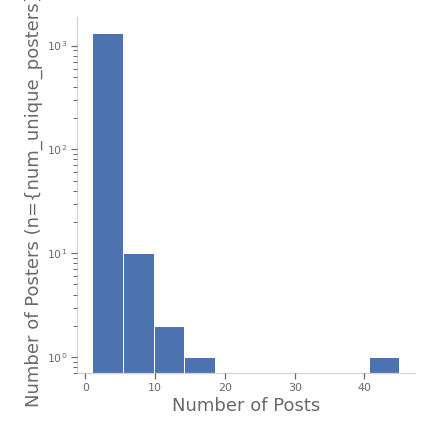
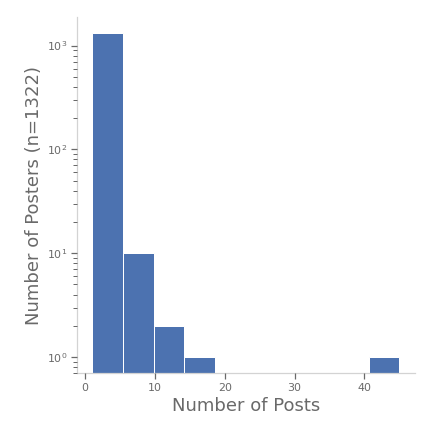
cleaning up code

Changed region(s): [[0.0602, 0.0, 0.1204, 0.963], [0.662, 0.8727, 0.6921, 0.9028], [0.1806, 0.8727, 0.2106, 0.9028]]

diff --git a/wsba.py b/wsba.py
@@ -136,7 +136,7 @@ def makeauthorfigures():
     plt.savefig('figures/pda_numposts.png')
     fig, ax = plt.subplots(1,1, figsize=(6,6))
     ax.hist(x=post_counts)
-    ax.set_ylabel('Number of Posters (n={num_unique_posters})')
+    ax.set_ylabel(f'Number of Posters (n={num_unique_posters})')
     ax.set_xlabel('Number of Posts')
     plt.tight_layout()
     plt.yscale('log')

diff --git a/README.md b/README.md
@@ -32,15 +32,15 @@ A total of 1322 submission authors are represented in the data. The plot below s
 | <a href=https://www.reddit.com/user/disgruntledbkbum/>disgruntledbkbum</a> | 18 |
 | <a href=https://www.reddit.com/user/pdwp90/>pdwp90</a> | 10 |
 | <a href=https://www.reddit.com/user/AutoModerator/>AutoModerator</a> | 10 |
-| <a href=https://www.reddit.com/user/Jesus_Gains_Christ/>Jesus_Gains_Christ</a> | 9 |
 | <a href=https://www.reddit.com/user/CMScientist/>CMScientist</a> | 9 |
+| <a href=https://www.reddit.com/user/Jesus_Gains_Christ/>Jesus_Gains_Christ</a> | 9 |
 | <a href=https://www.reddit.com/user/Citor3_scenes/>Citor3_scenes</a> | 8 |
 | <a href=https://www.reddit.com/user/GrubbyWango/>GrubbyWango</a> | 8 |
 | <a href=https://www.reddit.com/user/Anal_Chem/>Anal_Chem</a> | 7 |
-| <a href=https://www.reddit.com/user/dvdgelman7/>dvdgelman7</a> | 7 |
 | <a href=https://www.reddit.com/user/DanyeelsAnulmint/>DanyeelsAnulmint</a> | 7 |
-| <a href=https://www.reddit.com/user/indonesian_activist/>indonesian_activist</a> | 6 |
+| <a href=https://www.reddit.com/user/dvdgelman7/>dvdgelman7</a> | 7 |
 | <a href=https://www.reddit.com/user/Professional_War1998/>Professional_War1998</a> | 6 |
+| <a href=https://www.reddit.com/user/indonesian_activist/>indonesian_activist</a> | 6 |
 | <a href=https://www.reddit.com/user/GmeCalls-UrWifesBf/>GmeCalls-UrWifesBf</a> | 6 |
 
 # Some Initial Observations
